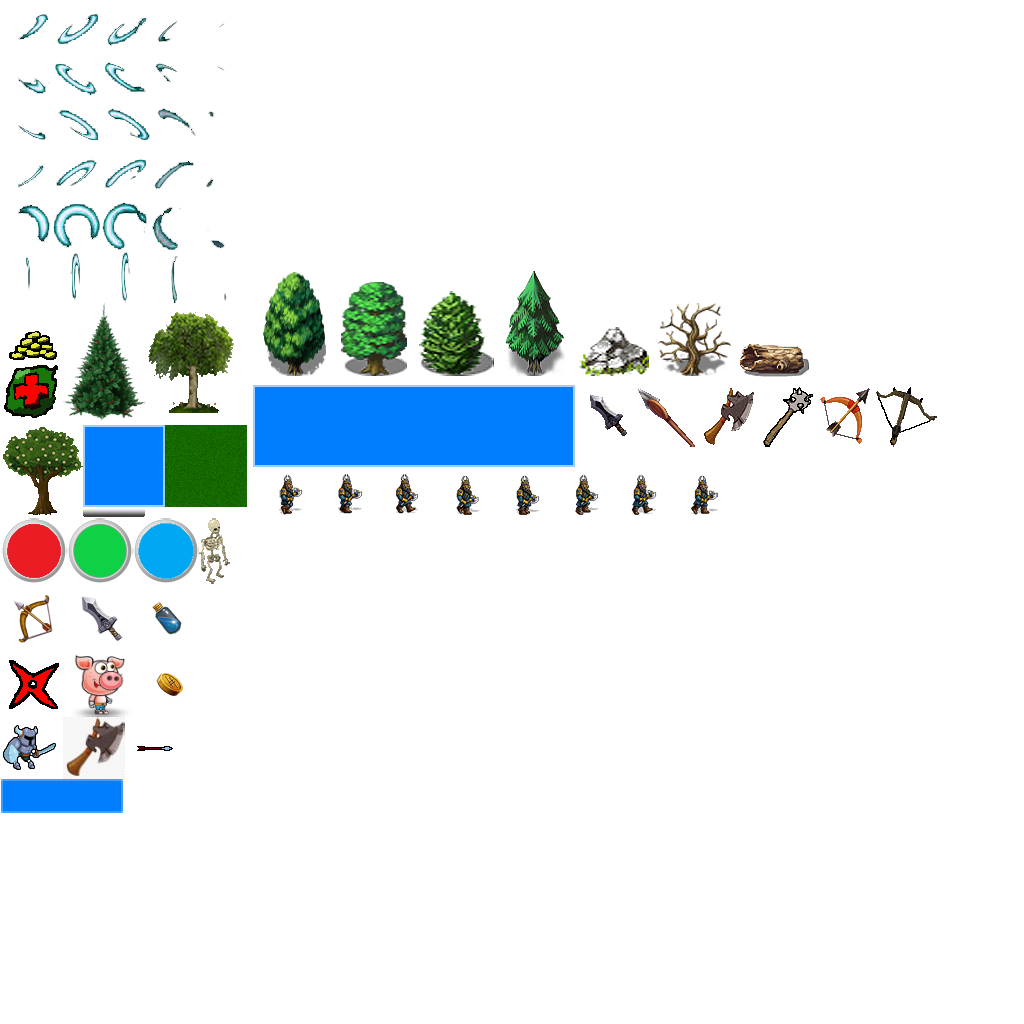
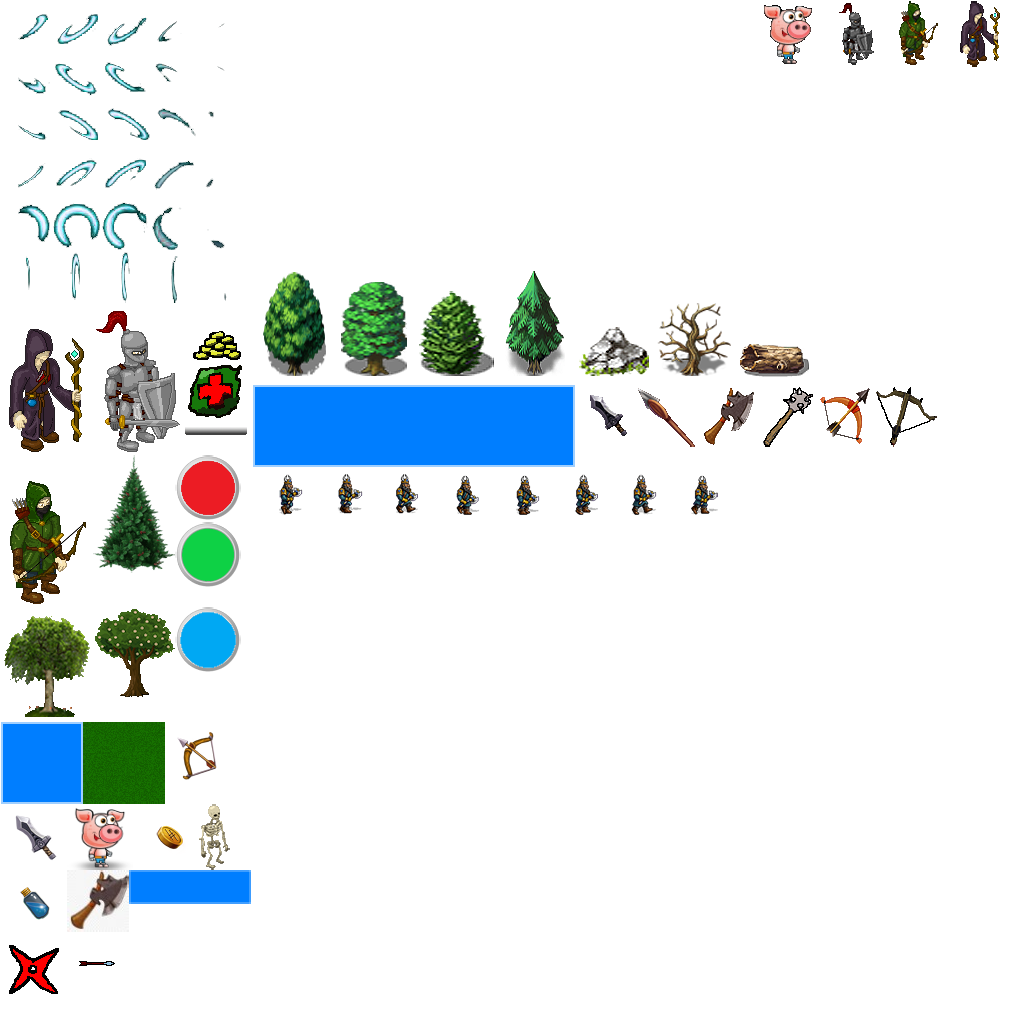
Home work 8. Наведение лоска.

Changed region(s): [[0.0, 0.2812, 0.25, 0.9688], [0.75, 0.0, 0.9062, 0.0625], [0.9375, 0.0, 1.0, 0.0625]]

diff --git a/core/src/com/lmarch/rpg/game/logic/HeroesController.java b/core/src/com/lmarch/rpg/game/logic/HeroesController.java
@@ -1,24 +1,35 @@
 package com.lmarch.rpg.game.logic;
 
+import com.badlogic.gdx.Gdx;
+import com.badlogic.gdx.Input;
 import com.badlogic.gdx.graphics.g2d.BitmapFont;
 import com.badlogic.gdx.graphics.g2d.SpriteBatch;
+import com.badlogic.gdx.graphics.g2d.TextureRegion;
+import com.badlogic.gdx.math.MathUtils;
 import com.lmarch.rpg.game.logic.utils.ObjectPool;
+import com.lmarch.rpg.game.screens.utils.Assets;
 
 import java.util.ArrayList;
 import java.util.List;
 
 public class HeroesController extends ObjectPool<Hero> {
     private GameController gc;
-    private java.util.List<Hero> heroes;
-    private java.util.List<Hero> selected;
+    private TextureRegion[] textures;
+    private List<Hero> heroes;
+    private List<Hero> selected;
+    private Hero heroesCommander;
 
     @Override
     protected Hero newObject() {
-        return new Hero(gc);
+        return new Hero(gc, textures[MathUtils.random(0, 3)]);
     }
 
     public List<Hero> getHeroes() {
         return heroes;
+    }
+
+    public Hero getHeroesCommander() {
+        return heroesCommander;
     }
 
     public List<Hero> getSelected() {
@@ -29,10 +40,14 @@ public class HeroesController extends ObjectPool<Hero> {
         this.gc = gc;
         this.heroes = new ArrayList<>();
         this.selected = new ArrayList<>();
+        this.textures = new TextureRegion(Assets.getInstance().getAtlas().findRegion("heroes")).split(64, 64)[0];
+        //!!! Всего 4 текстуры!
         for (int i = 0; i < 3; i++) {
-            heroes.add(new Hero(gc));
+            heroes.add(new Hero(gc, textures[MathUtils.random(0, 3)]));
+            //heroes.add(new Hero(gc));
         }
         selected.add(heroes.get(0));
+        this.heroesCommander = heroes.get(0);
     }
 
     public void renderGUI(SpriteBatch batch, BitmapFont font){
@@ -41,10 +56,26 @@ public class HeroesController extends ObjectPool<Hero> {
         }
     }
 
+    public void setCommander() {
+
+    }
+
     public void update(float dt) {
+        for (int i = 0; i < heroes.size(); i++) {
+            if (Gdx.input.isKeyJustPressed(Input.Keys.NUM_1 + i)) {
+                selected.clear();
+                selected.add(heroes.get(i));
+                heroesCommander = heroes.get(i);
+            }
+        }
+        if (Gdx.input.isKeyJustPressed(Input.Keys.NUM_1 + heroes.size())) {
+            selected.clear();
+            selected.addAll(heroes);
+        }
         for (Hero hero : heroes) {
             hero.update(dt);
         }
         checkPool();
+        setCommander();
     }
 }

diff --git a/core/src/com/lmarch/rpg/game/GeekRpgGame.java b/core/src/com/lmarch/rpg/game/GeekRpgGame.java
@@ -12,10 +12,9 @@ public class GeekRpgGame extends Game { //Меняем на Game для упра
 	// Домашнее задание 8 Урок:
 	// +  Реализация рюкзака. От Монстра остается оружие, и именно его поднимает Герой.
 	// -  Функция выброса оружия из рюкзака
-	// +  Отображение оружия Игроков.
+	// +  Отображение оружия всех Игроков.
 	// -  Не работает Scroll.
-	// -  Управление второстепенным персонажем.
-	// -  Управление несколькими Героями
+	// +  Управление несколькими Героями. Для каждого реализован рюкзак.
 	// -  Картинка вылетевшей души (через специал эффект).
 	// -  Добавить кнопку выключения звука, Оружие, перерисовать кнопки Меню.
 	// -  Несколько видов Монстров (группы), враждующих между собой

diff --git a/core/src/com/lmarch/rpg/game/screens/GameScreen.java b/core/src/com/lmarch/rpg/game/screens/GameScreen.java
@@ -32,9 +32,7 @@ public class GameScreen extends AbstractScreen {
         this.gc = new GameController();
         this.worldRenderer = new WorldRenderer(gc, batch);
         createGui();
-        //this.inventoryGui = new InventoryGui(stage, skin, gc.getHeroesController().getSelected().get(0).getInventory());
-        this.inventoryGui = new InventoryGui(stage, skin, gc.getHeroesController().getHeroes().get(0));
-        //this.inventoryGui = new InventoryGui(stage, skin, gc.getHero().getInventory());
+        this.inventoryGui = new InventoryGui(stage, skin, gc.getHeroesController().getHeroesCommander());
     }
 
     @Override //Отрисовка
@@ -44,7 +42,7 @@ public class GameScreen extends AbstractScreen {
             //gc.getMusic().play();
         }
         worldRenderer.render();
-        inventoryGui.update();
+        inventoryGui.update(gc.getHeroesController().getHeroesCommander());
         //gc.getMusic().pause();
         stage.draw();
     }

diff --git a/core/src/com/lmarch/rpg/game/logic/Hero.java b/core/src/com/lmarch/rpg/game/logic/Hero.java
@@ -19,9 +19,10 @@ public class Hero extends GameCharacter implements Poolable {
         return inventory;
     }
 
-    public Hero(GameController gc){
+    public Hero(GameController gc, TextureRegion textureRegion){
         super(gc, 100, 120.0f);
         this.texture = new TextureRegion(Assets.getInstance().getAtlas().findRegion("pig1")).split(60, 60);
+        //this.texture = textureRegion;
         this.changePosition(MathUtils.random(50, 800), MathUtils.random(50, 600));
         this.dst.set(position);
         this.strBuilder = new StringBuilder();

diff --git a/core/src/com/lmarch/rpg/game/logic/InventoryGui.java b/core/src/com/lmarch/rpg/game/logic/InventoryGui.java
@@ -88,10 +88,13 @@ public class InventoryGui extends Group {
         stage.setDebugAll(true);
     }
 
-    public void update() {
+    public void update(Hero commander) {
+        this.hero = commander;
         itemList.setItems(hero.getInventory().getRucksackInfo());
 
         labelWeapon.setText(hero.weapon.getTitle() + " "
                 + hero.weapon.getMinDamage() + "-" + hero.weapon.getMaxDamage());
+
+
     }
 }

diff --git a/core/src/com/lmarch/rpg/game/logic/Weapon.java b/core/src/com/lmarch/rpg/game/logic/Weapon.java
@@ -155,8 +155,8 @@ public class Weapon implements MapElement, Poolable, Consumable {
         this.position.set(x, y);
     }
 
-    public Weapon(TextureRegion[] texturesAll) {
-        this.textures = texturesAll;
+    public Weapon(TextureRegion[] textures) {
+        this.textures = textures;
         this.position = new Vector2(0, 0);
     }
 
